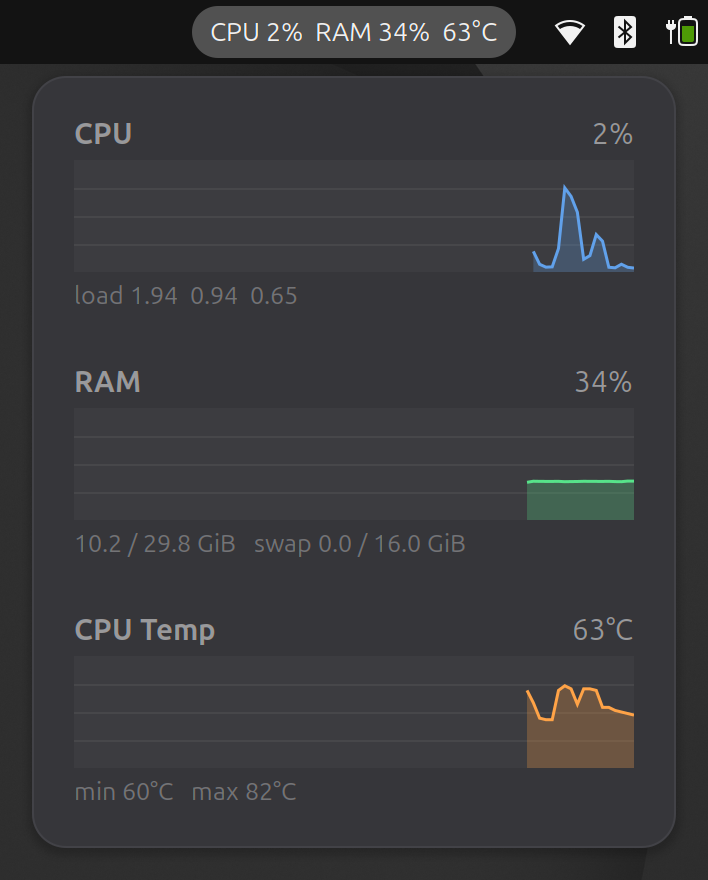
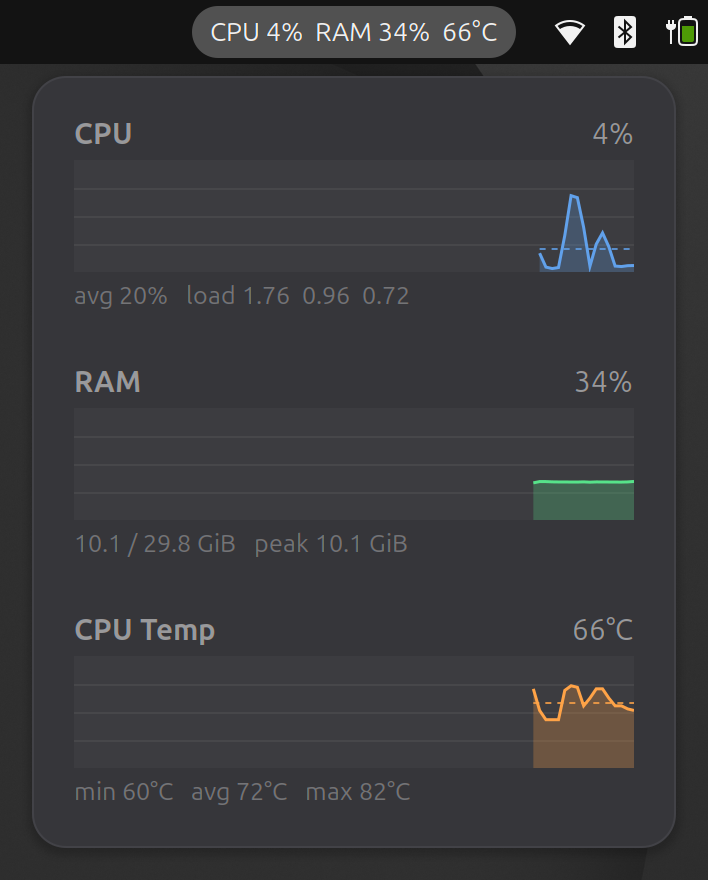
Show CPU/temp averages with dashed average line, RAM peak
Swap is listed only when in use to keep the RAM detail line short.

diff --git a/extension.js b/extension.js
@@ -16,6 +16,12 @@ const HOVER_CLOSE_MS = 400;
 
 const decoder = new TextDecoder();
 
+const numbers = list => list.filter(v => v !== null);
+const average = list => {
+    const nums = numbers(list);
+    return nums.length ? nums.reduce((a, b) => a + b, 0) / nums.length : null;
+};
+
 function readFile(path) {
     try {
         const [, bytes] = GLib.file_get_contents(path);
@@ -118,7 +124,9 @@ class Sampler {
         const swapUsed = swapTotal - kb('SwapFree');
         const gib = n => (n / 1048576).toFixed(1);
         this.info.ram = `${gib(used)} / ${gib(total)} GiB`;
-        this.info.swap = swapTotal ? `swap ${gib(swapUsed)} / ${gib(swapTotal)} GiB` : '';
+        this.info.ramTotalKb = total;
+        // Swap cuma ditampilkan kalau memang terpakai, biar baris detail tidak kepanjangan
+        this.info.swap = swapUsed > 52428 ? `swap ${gib(swapUsed)} GiB` : '';
         return total ? 100 * used / total : null;
     }
 
@@ -139,8 +147,9 @@ const COLORS = {
 
 const Graph = GObject.registerClass(
 class Graph extends St.DrawingArea {
-    _init(series, color, min, max) {
+    _init(series, color, min, max, showAvg) {
         super._init({style_class: 'sysmon-graph'});
+        this._showAvg = showAvg;
         this.connect('style-changed', () => this.queue_repaint());
         this._series = series;
         this._color = color;
@@ -192,13 +201,25 @@ class Graph extends St.DrawingArea {
             cr.setLineWidth(1.5);
             cr.stroke();
         }
+
+        const avg = this._showAvg ? average(values) : null;
+        if (avg !== null && points.length > 1) {
+            const ay = Math.round(y(avg)) + 0.5;
+            cr.setDash([3, 3], 0);
+            cr.setLineWidth(1);
+            cr.setSourceRGBA(r, g, b, 0.8);
+            cr.moveTo(points[0][0], ay);
+            cr.lineTo(points.at(-1)[0], ay);
+            cr.stroke();
+            cr.setDash([], 0);
+        }
         cr.$dispose();
     }
 });
 
 const Section = GObject.registerClass(
 class Section extends PopupMenu.PopupBaseMenuItem {
-    _init(title, series, color, min, max) {
+    _init(title, series, color, min, max, showAvg = false) {
         super._init({reactive: false, can_focus: false});
         const box = new St.BoxLayout({
             orientation: Clutter.Orientation.VERTICAL,
@@ -210,7 +231,7 @@ class Section extends PopupMenu.PopupBaseMenuItem {
         this.value = new St.Label({style_class: 'sysmon-value'});
         header.add_child(this.value);
         box.add_child(header);
-        this.graph = new Graph(series, color, min, max);
+        this.graph = new Graph(series, color, min, max, showAvg);
         box.add_child(this.graph);
         this.detail = new St.Label({style_class: 'sysmon-detail', opacity: 160});
         box.add_child(this.detail);
@@ -234,9 +255,9 @@ class SysMonButton extends PanelMenu.Button {
         this.add_child(this._label);
 
         const last = list => list.at(-1) ?? null;
-        this._cpu = new Section('CPU', () => sampler.cpu, COLORS.cpu, 0, 100);
+        this._cpu = new Section('CPU', () => sampler.cpu, COLORS.cpu, 0, 100, true);
         this._ram = new Section('RAM', () => sampler.ram, COLORS.ram, 0, 100);
-        this._temp = new Section('CPU Temp', () => sampler.temp, COLORS.temp, 30, 100);
+        this._temp = new Section('CPU Temp', () => sampler.temp, COLORS.temp, 30, 100, true);
         for (const s of [this._cpu, this._ram, this._temp])
             this.menu.addMenuItem(s);
         this._last = last;
@@ -315,13 +336,22 @@ class SysMonButton extends PanelMenu.Button {
 
         this._label.text = `CPU ${fmt(cpu, '%')}  RAM ${fmt(ram, '%')}  ${fmt(temp, '°C')}`;
         this._cpu.value.text = fmt(cpu, '%');
-        this._cpu.detail.text = s.info.load ? `load ${s.info.load}` : '';
+        this._cpu.detail.text = [
+            `avg ${fmt(average(s.cpu), '%')}`,
+            s.info.load ? `load ${s.info.load}` : '',
+        ].filter(t => t).join('   ');
+
         this._ram.value.text = fmt(ram, '%');
-        this._ram.detail.text = [s.info.ram, s.info.swap].filter(t => t).join('   ');
+        const rams = numbers(s.ram);
+        const peak = rams.length && s.info.ramTotalKb
+            ? `peak ${(Math.max(...rams) / 100 * s.info.ramTotalKb / 1048576).toFixed(1)} GiB`
+            : '';
+        this._ram.detail.text = [s.info.ram, peak, s.info.swap].filter(t => t).join('   ');
+
         this._temp.value.text = fmt(temp, '°C');
-        const temps = s.temp.filter(t => t !== null);
+        const temps = numbers(s.temp);
         this._temp.detail.text = temps.length
-            ? `min ${Math.round(Math.min(...temps))}°C   max ${Math.round(Math.max(...temps))}°C`
+            ? `min ${fmt(Math.min(...temps), '°C')}   avg ${fmt(average(temps), '°C')}   max ${fmt(Math.max(...temps), '°C')}`
             : 'sensor tidak ditemukan';
 
         if (this.menu.isOpen)

diff --git a/README.md b/README.md
@@ -7,7 +7,10 @@ GNOME Shell extension that shows CPU usage, RAM usage and CPU temperature in the
 | ![Graph menu in light mode](screenshots/menu-light.png) | ![Graph menu in dark mode](screenshots/menu-dark.png) |
 
 - Top bar label: `CPU 5%  RAM 32%  66°C`, refreshed every 2 seconds.
-- Hover the label (or click it) to open a menu with 3-minute graphs for CPU (with load average), RAM (with used/total GiB and swap) and CPU temperature (with min/max).
+- Hover the label (or click it) to open a menu with 3-minute graphs:
+  - **CPU**: average usage and load average, with a dashed average line.
+  - **RAM**: used/total GiB and peak; swap is shown only when in use.
+  - **CPU temperature**: min, average and max, with a dashed average line.
 - A hover-opened menu closes when the pointer leaves it; clicking while it is open keeps it pinned.
 - Follows the light/dark style live: grid and text use the theme colors, and the graph colors switch to a brighter palette in dark mode.
 - CPU temperature sensor is detected automatically: `coretemp` Package, `k10temp` Tctl/Tdie, `zenpower`, ThinkPad `CPU`, or a CPU thermal zone.
